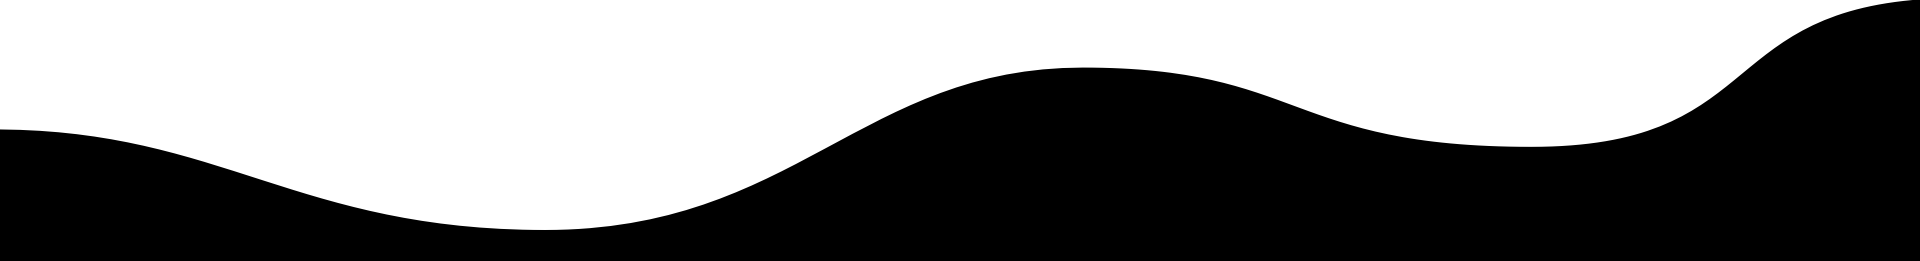
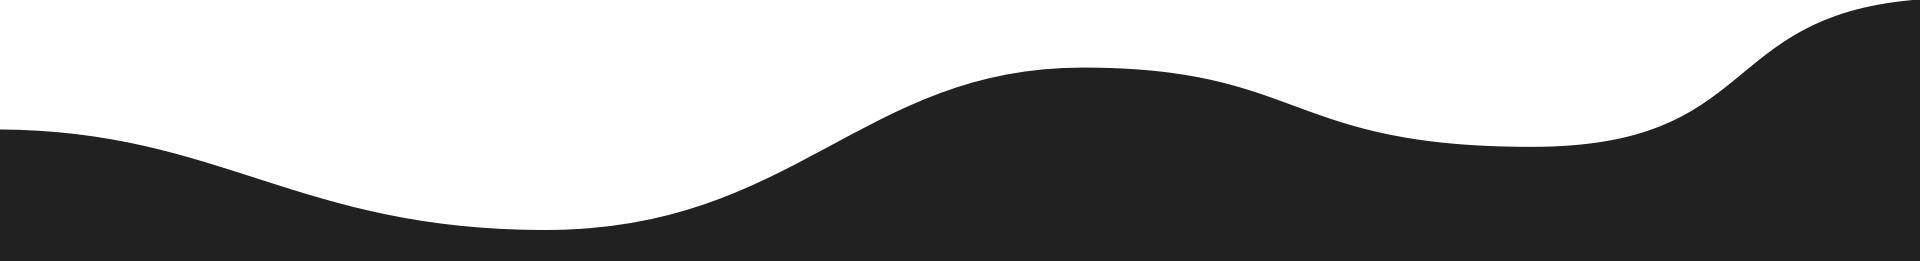
:lipstick: Wave now suports darkmode :)

diff --git a/assets/scss/style.scss b/assets/scss/style.scss
@@ -468,6 +468,10 @@ header.page-header {
     background-size: 100% 100%;
     background-repeat: no-repeat;
     display: block;
+
+    @media (prefers-color-scheme: dark) {
+      background-image: url(../../img/waves/wave-dark.png);
+    }
   }
 
   div.content {
